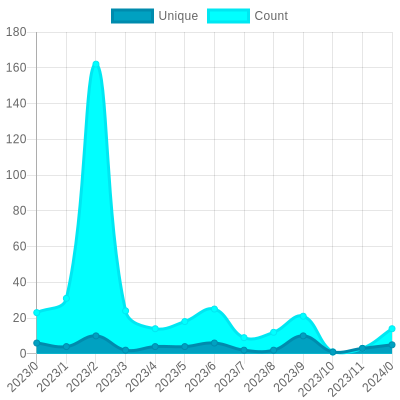
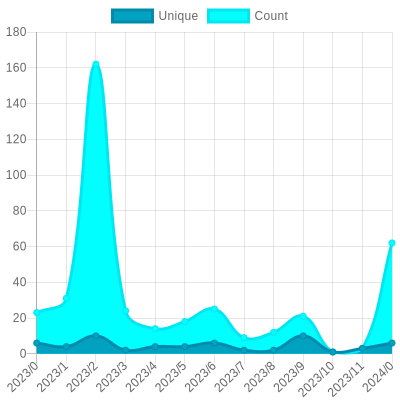
Update views

Changed region(s): [[0.9, 0.6, 0.99, 0.87], [0.87, 0.87, 0.9, 0.9]]

diff --git a/readme/398217802/year.md b/readme/398217802/year.md
@@ -23,10 +23,10 @@
 			<code>2023/1/1</code>
 		</td>
 		<td>
-			<code>5</code>
+			<code>6</code>
 		</td>
 		<td>
-			<code>14</code>
+			<code>62</code>
 		</td>
 	</tr>
 	<tr>
@@ -164,7 +164,7 @@
 </table>
 
 </details>
-<small><i>Last updated on 2023/1/28 12:27 PM UTC</i></small>
+<small><i>Last updated on 2023/1/28 6:17 PM UTC</i></small>
 
 ## ✂Copy and 📋 Paste
 ### SVG Badge

diff --git a/README.md b/README.md
@@ -37,7 +37,7 @@ The project created and maintained by [gayanvoice](https://github.com/gayanvoice
 	</tr>
 </table>
 
-<small><i>Last updated on 2023/1/28 12:27 PM UTC</i></small>
+<small><i>Last updated on 2023/1/28 6:17 PM UTC</i></small>
 
 ## ✂Copy and 📋 Paste
 ### Total Views Badge
